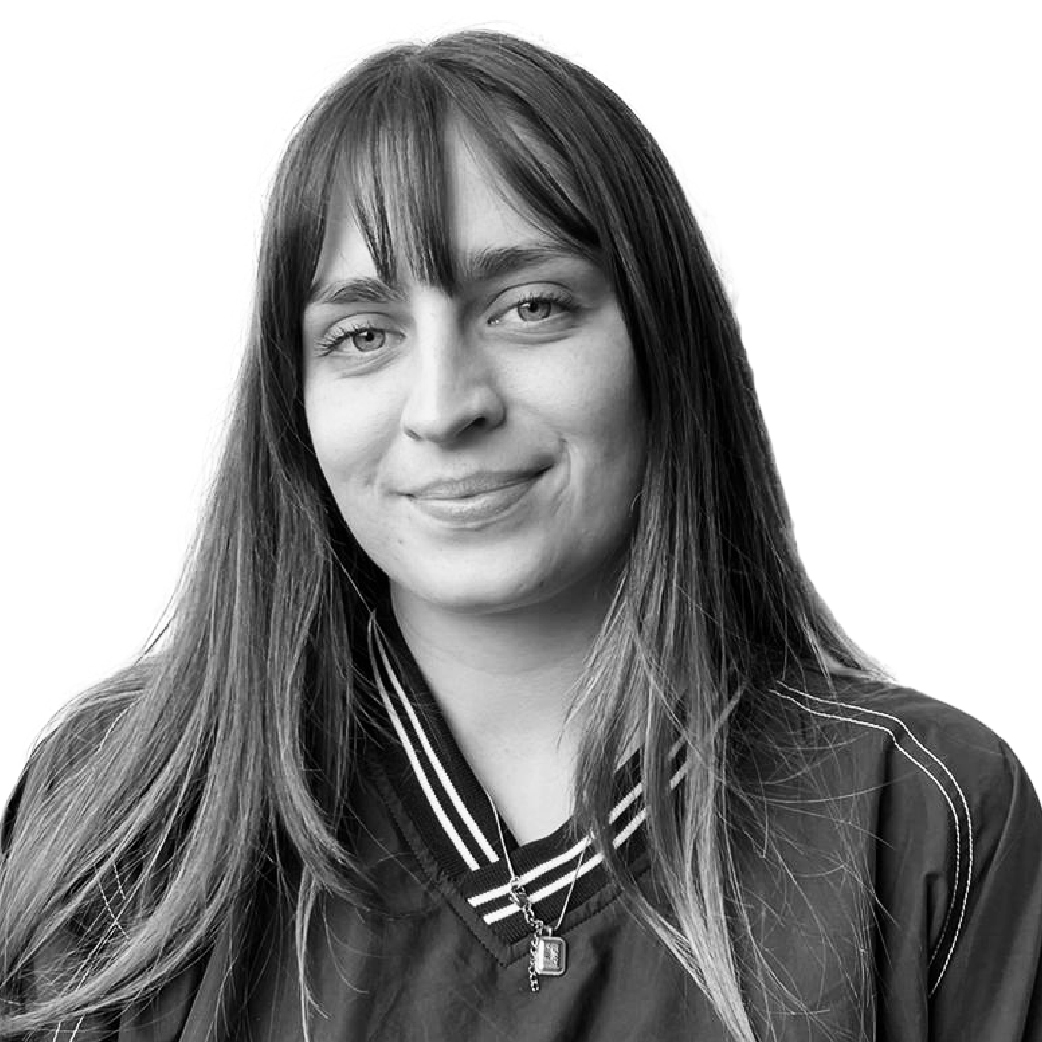
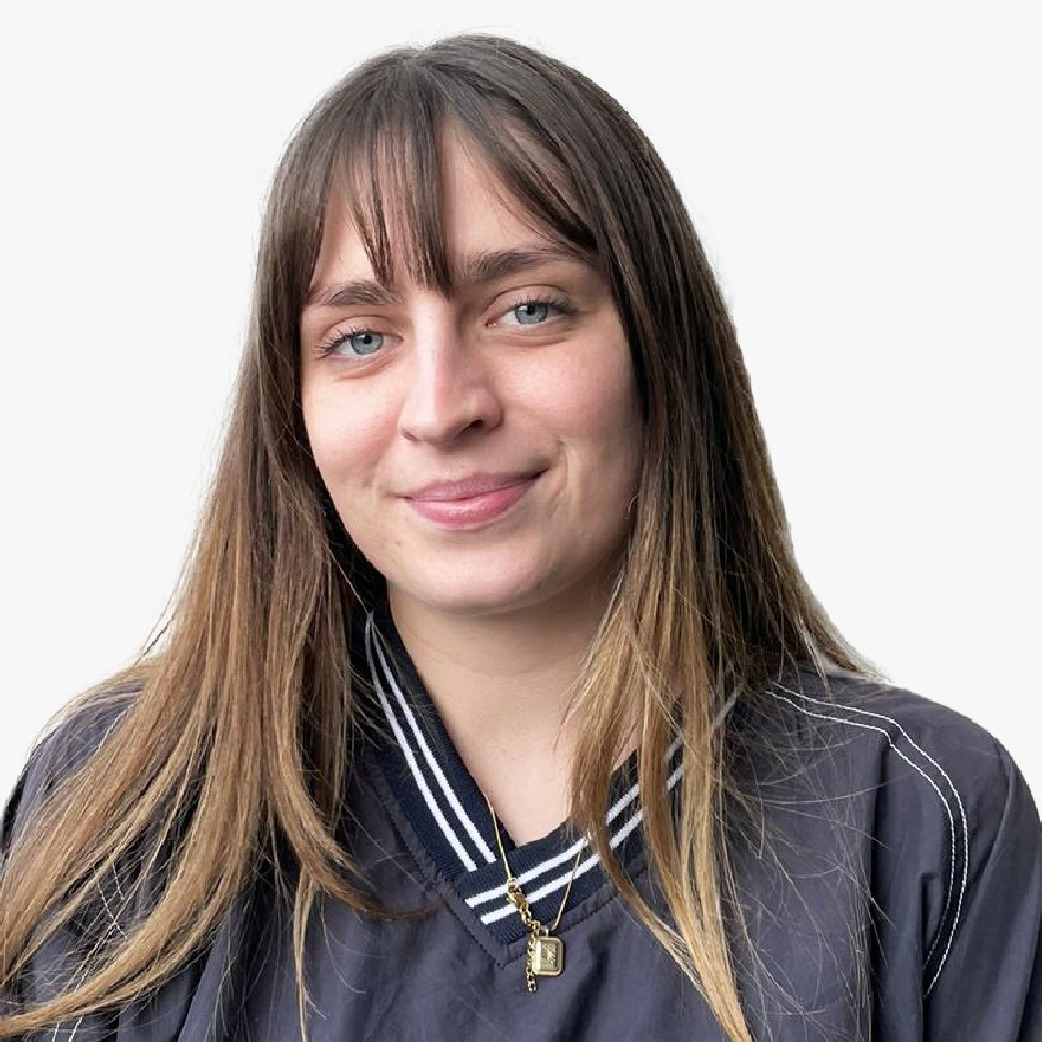
Foto angepasst Nora

diff --git a/script.js b/script.js
@@ -11,7 +11,7 @@ document.addEventListener('DOMContentLoaded', function() {
             const response = await fetch(apiUrl);
             const data = await response.json();
             const date = new Date().toLocaleDateString('de-DE', { weekday: 'long', year: 'numeric', month: 'long', day: 'numeric' });
-            const isGoodDay = data.aare.temperature > 17;
+            const isGoodDay = data.aare.temperature > 16;
 
             const dayStatusBox = document.createElement('div');
             dayStatusBox.style.backgroundColor = isGoodDay ? '#ffcc00' : '#007691';
